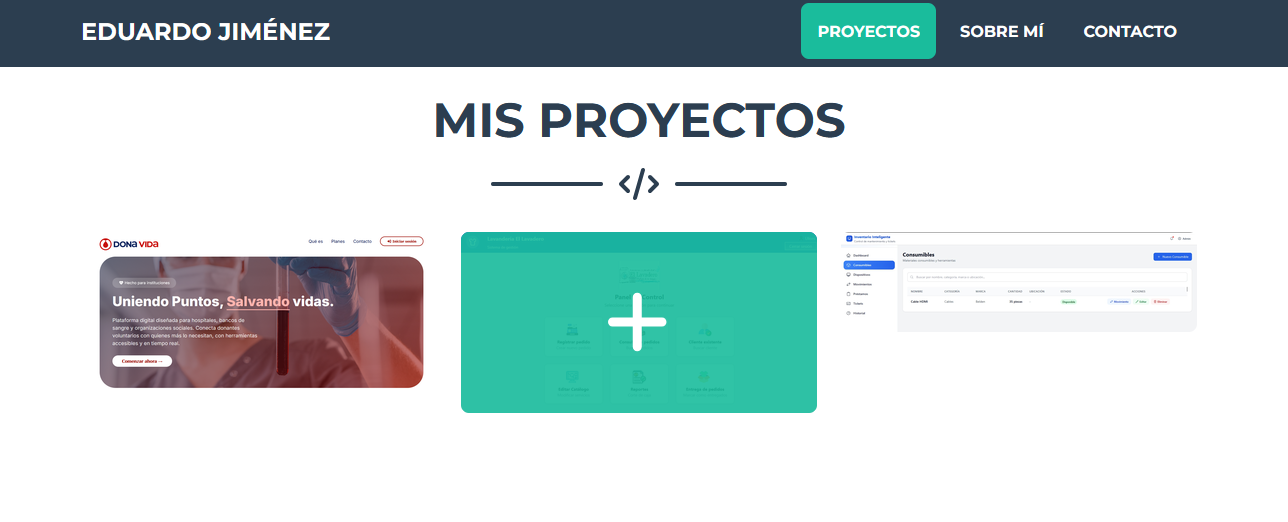
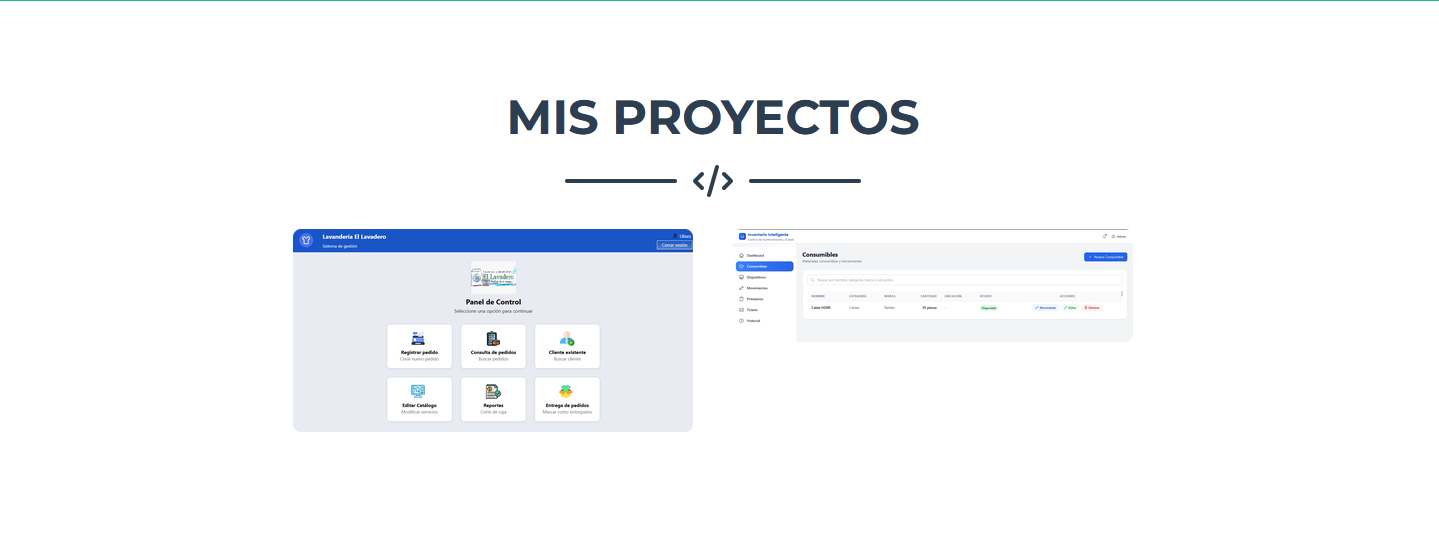
Actividad 4

diff --git a/index.html b/index.html
@@ -109,28 +109,7 @@
         </div>
 
         <div class="row justify-content-center">
-          <div class="col-md-6 col-lg-4 mb-5">
-            <div
-              class="portfolio-item mx-auto"
-              data-bs-toggle="modal"
-              data-bs-target="#portfolioModal1"
-            >
-              <div
-                class="portfolio-item-caption d-flex align-items-center justify-content-center h-100 w-100"
-              >
-                <div
-                  class="portfolio-item-caption-content text-center text-white"
-                >
-                  <i class="fas fa-plus fa-3x"></i>
-                </div>
-              </div>
-              <img
-                class="img-fluid"
-                src="img/portfolio/donavida.png"
-                alt="Proyecto DonaVida"
-              />
-            </div>
-          </div>
+          
           <div class="col-md-6 col-lg-4 mb-5">
             <div
               class="portfolio-item mx-auto"
@@ -320,61 +299,7 @@
       </div>
     </div>
 
-    <div
-      class="portfolio-modal modal fade"
-      id="portfolioModal1"
-      tabindex="-1"
-      aria-labelledby="portfolioModal1"
-      aria-hidden="true"
-    >
-      <div class="modal-dialog modal-xl">
-        <div class="modal-content">
-          <div class="modal-header border-0">
-            <button
-              class="btn-close"
-              type="button"
-              data-bs-dismiss="modal"
-              aria-label="Close"
-            ></button>
-          </div>
-          <div class="modal-body text-center pb-5">
-            <div class="container">
-              <div class="row justify-content-center">
-                <div class="col-lg-8">
-                  <h2
-                    class="portfolio-modal-title text-secondary text-uppercase mb-0"
-                  >
-                    DonaVida
-                  </h2>
-                  <div class="divider-custom">
-                    <div class="divider-custom-line"></div>
-                    <div class="divider-custom-icon">
-                      <i class="fas fa-heartbeat"></i>
-                    </div>
-                    <div class="divider-custom-line"></div>
-                  </div>
-                  <img
-                    class="img-fluid rounded mb-5"
-                    src="img/portfolio/donavida.png"
-                    alt="Proyecto DonaVida"
-                  />
-                  <p class="mb-4">
-                    Plataforma de vinculación logística para la donación de
-                    sangre en Oaxaca, desarrollada para el evento INNOVATEC con
-                    la categoria CERTAMEN DE PROYECTOS. Este proyecto fue
-                    implementado utilizando una arquitectura de microservicios y
-                    el Stack MERN (MongoDB, Express, React, Node.js).
-                  </p>
-                  <button class="btn btn-primary" data-bs-dismiss="modal">
-                    <i class="fas fa-xmark fa-fw"></i> Cerrar Ventana
-                  </button>
-                </div>
-              </div>
-            </div>
-          </div>
-        </div>
-      </div>
-    </div>
+   
 
     <div
       class="portfolio-modal modal fade"

diff --git a/README.md b/README.md
@@ -1,31 +1,31 @@
 # Portafolio Personal - Eduardo Jiménez Mendoza
 
-## 📖 Descripción del Proyecto
+## Descripción del Proyecto
 Este repositorio contiene el código fuente de mi portafolio web personal, desarrollado como parte de las prácticas de la materia. El objetivo principal es mostrar mis habilidades como estudiante de Ingeniería en Sistemas Computacionales, así como los proyectos de desarrollo de software y web en los que he trabajado.
 
 * **Framework CSS utilizado:** [Escribe aquí Bootstrap o Tailwind CSS]
 * **Plantilla base:** [Nombre de la plantilla]
 * **Enlace de descarga de la plantilla:** [Pega el link de donde la sacaste]
 
-## 🗂 Estructura y Secciones
+## Estructura y Secciones
 El portafolio está compuesto por las siguientes secciones principales a través de un menú de navegación:
 
 1. **Inicio (Hero):** Sección de bienvenida con mi nombre, título profesional y una fotografía formal.
 2. **Sobre Mí (About):** Breve descripción de mi perfil como estudiante del Instituto Tecnológico de Oaxaca (ITO) y mis intereses en el desarrollo de software.
 3. **Habilidades (Skills):** Listado de tecnologías que manejo, incluyendo lenguajes (Java, C#, JS, JavaScript), Stack MERN.
 4. **Proyectos (Portfolio):** Galería interactiva mostrando desarrollos como "DonaVida", dos Sistemas de Gestión en C# WPF "Lavanderia" y en JavaScript, Css, html "Inventario de centro de computo" .
-5. **Contacto (Contact):** Formulario de contacto y enlaces a mis redes profesionales (GitHub, LinkedIn).
+5. **Contacto (Contact):** Formulario de contacto y enlaces a mis redes profesionales (GitHub).
 
-## ⚙ Proceso de Creación (Paso a Paso)
+## Proceso de Creación
 1. **Selección y Descarga:** Elegí la plantilla Freelancer debido a su diseño limpio y estructura responsiva.
 2. **Limpieza de Código:** Eliminé secciones innecesarias que venían por defecto en la plantilla.
 3. **Integración de Estilos:** Adapté la estructura de carpetas a los requerimientos del proyecto, moviendo los estilos al archivo `css/portafolio.css` y los scripts a `js/portafolio.js`.
-4. **Personalización de Contenido:** * Reemplacé las imágenes de stock por capturas de mis proyectos reales (DonaVida, Ejercicios Web).
-   * Agregué una fotografía profesional asegurando buena iluminación y fondo neutro.
+4. **Personalización de Contenido:**  Reemplacé las imágenes de stock por capturas de mis proyectos reales (DonaVida, Ejercicios Web).
+   * Agregué una fotografía.
    * Ajusté la paleta de colores nativa de Bootstrap para que coincidiera con mi identidad visual.
 5. **Despliegue:** Inicialicé el repositorio en GitHub, subí los cambios y activé GitHub Pages desde la configuración del repositorio.
 
-## 📸 Capturas de Pantalla
+## Capturas de Pantalla
 ![Captura de la sección Inicio](img/inicio.png)
 
 
